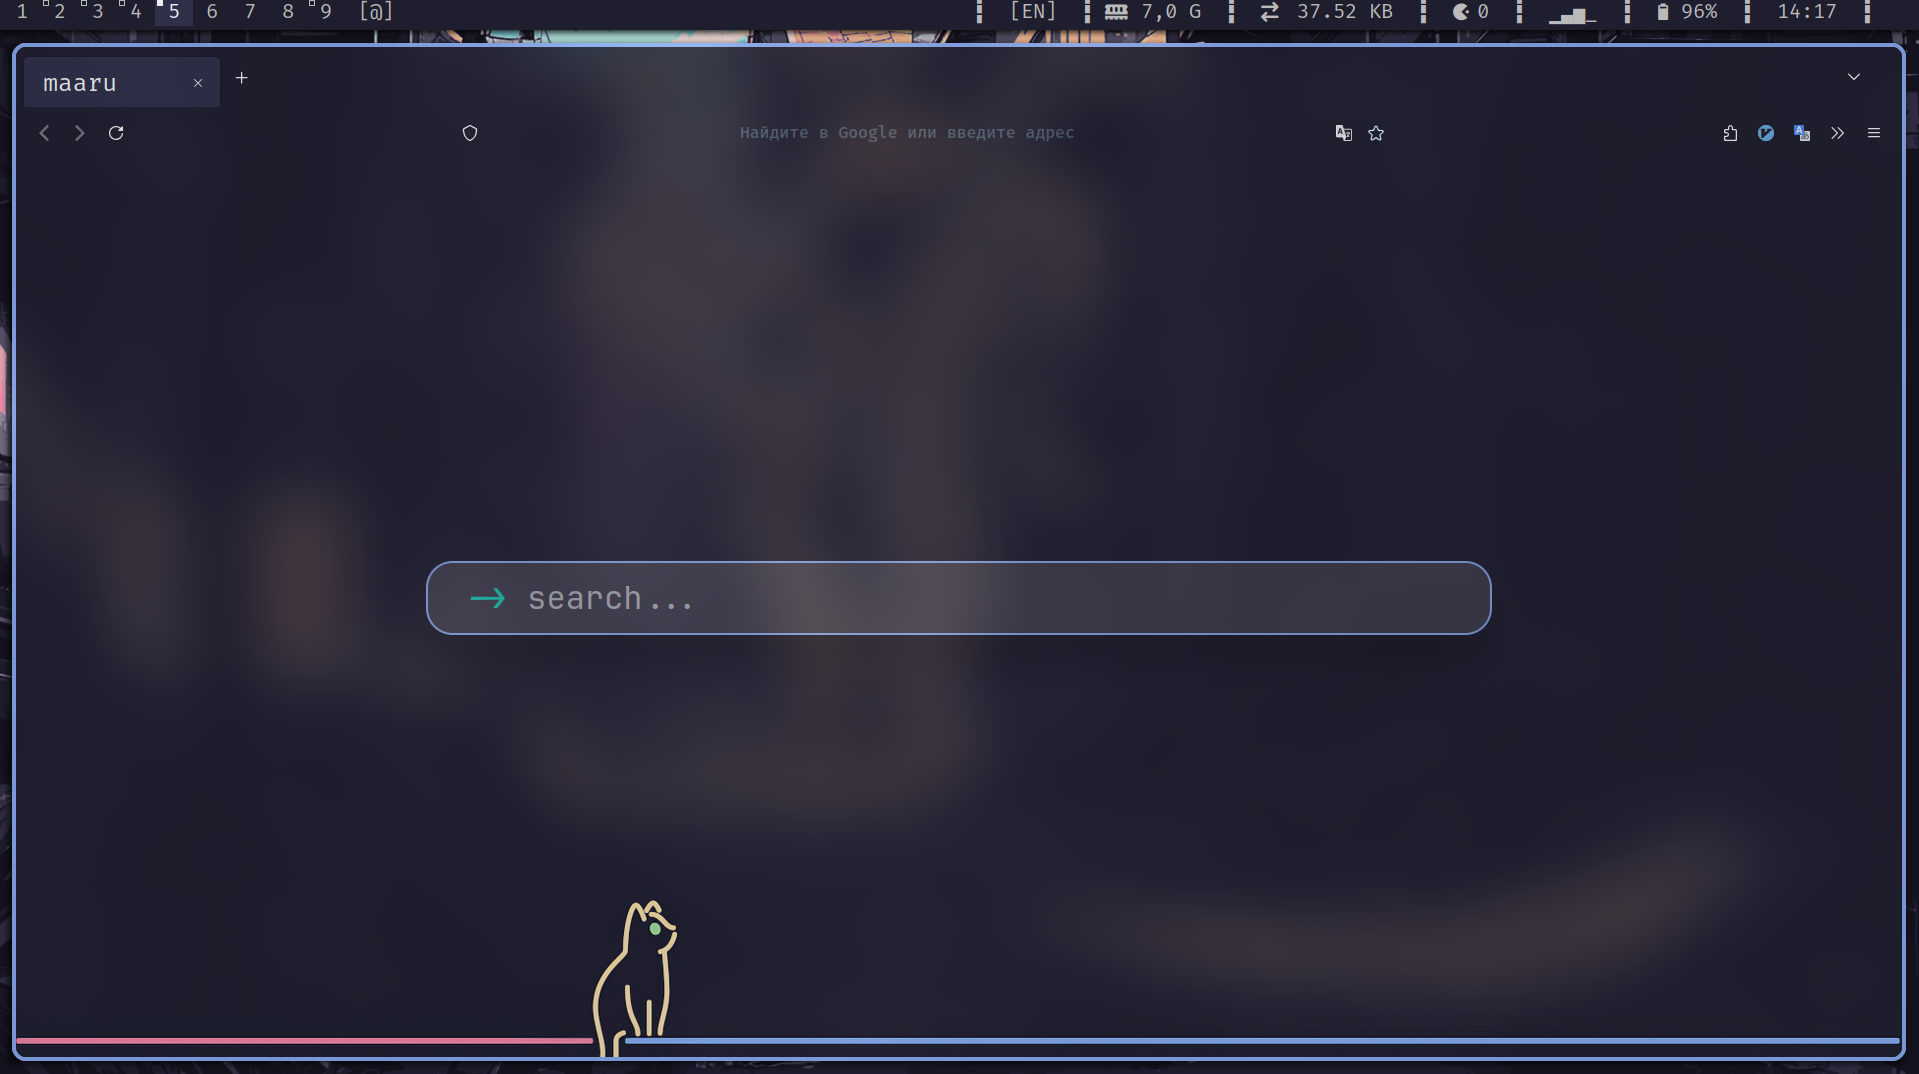
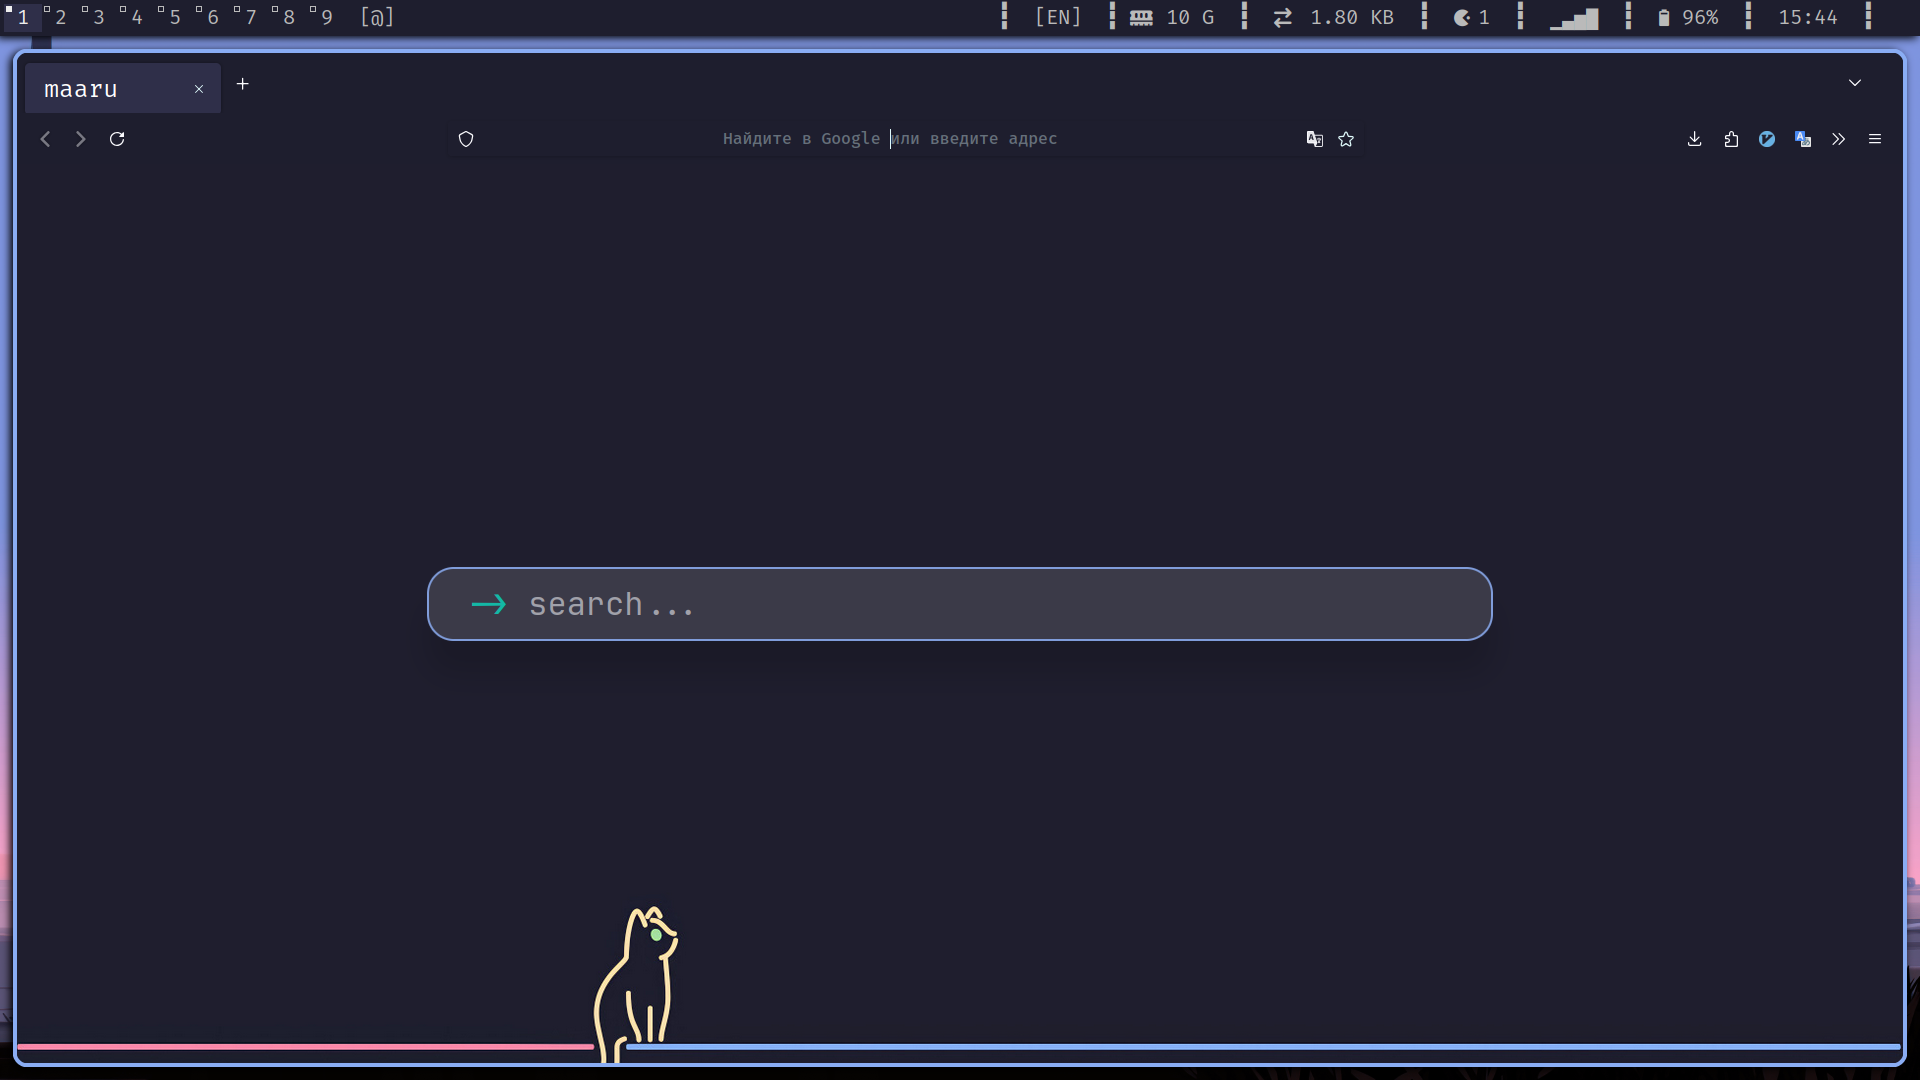
add

diff --git a/README.md b/README.md
@@ -8,6 +8,12 @@
 
 ![race](./img/firefox.png)
 
+# no blur ???
+
+this will only work for [picom](https://github.com/fdev31/picom)
+
+![race](./img/firefox-blur.png)
+
 # extensions mtab
 
 -   [mtab](https://addons.mozilla.org/en-US/firefox/addon/mtab/)
